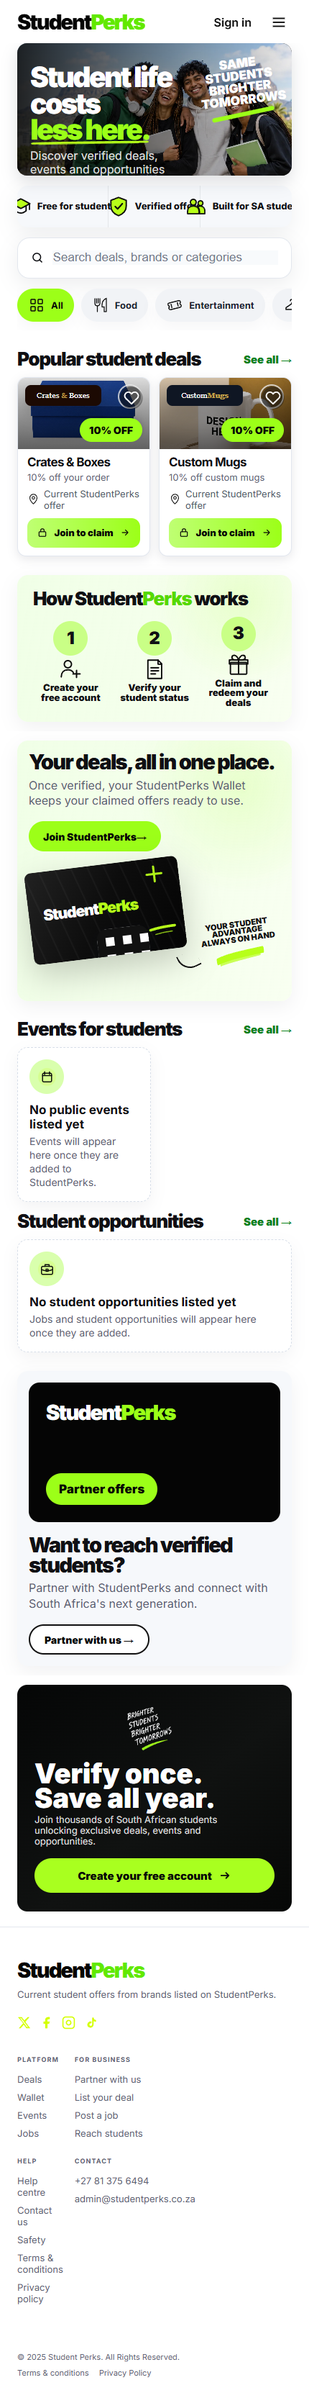
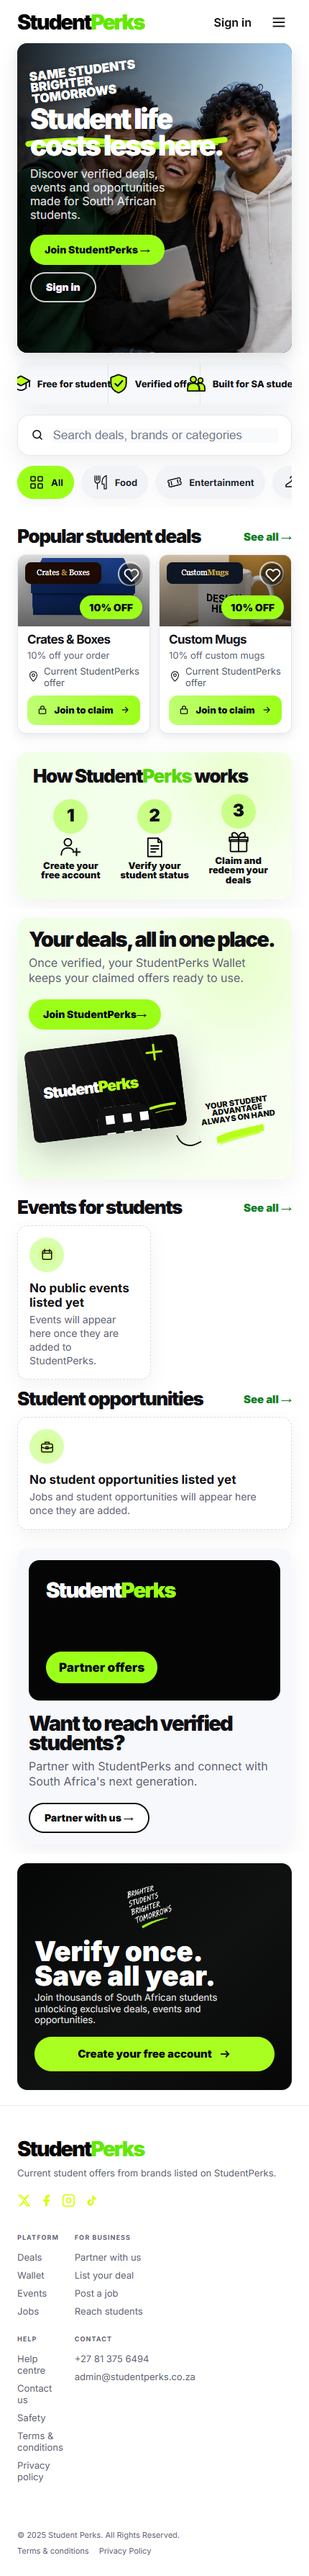
Implement approved hero text treatment

diff --git a/index.html b/index.html
@@ -2838,6 +2838,177 @@ body.public-redesign .deal-image.mugs .brand-logo-img {
     max-width: 100%;
   }
 }
+
+body.public-redesign .hero-handwritten {
+  position: relative;
+  z-index: 3;
+  width: max-content;
+  max-width: 180px;
+  margin-bottom: 10px;
+  color: #fff;
+  font-size: 16px;
+  line-height: .9;
+  font-weight: 900;
+  text-transform: uppercase;
+  transform: rotate(-7deg);
+  text-shadow: 0 2px 12px rgba(0,0,0,.5);
+}
+
+body.public-redesign .hero-underlined {
+  position: relative;
+  z-index: 1;
+  display: inline-block;
+  color: inherit !important;
+  white-space: nowrap;
+}
+
+body.public-redesign .hero-underlined img {
+  position: absolute;
+  z-index: -1;
+  left: -3%;
+  bottom: -.13em;
+  width: 106%;
+  height: auto;
+  pointer-events: none;
+}
+
+@media(max-width:700px){
+  body.public-redesign .mock-hero {
+    height: auto !important;
+    min-height: 0 !important;
+    padding-bottom: 14px !important;
+  }
+
+  body.public-redesign .mock-hero-card {
+    min-height: 430px !important;
+    aspect-ratio: auto !important;
+  }
+
+  body.public-redesign .mock-hero-card > img:first-child {
+    height: 100% !important;
+    object-position: 58% center !important;
+  }
+
+  body.public-redesign .mock-hero-copy h1 {
+    max-width: 310px;
+    margin-bottom: 12px;
+  }
+
+  body.public-redesign .hero-handwritten {
+    margin-bottom: 12px;
+    font-size: 17px;
+  }
+
+  body.public-redesign .mock-actions {
+    display: flex;
+    gap: 10px;
+  }
+
+  body.public-redesign .mock-actions .mock-btn {
+    min-height: 44px;
+    padding: 0 18px;
+    font-size: 14px;
+  }
+}
+
+@media(min-width:701px){
+  body.public-redesign .mock-hero {
+    height: 550px;
+    min-height: 550px;
+  }
+
+  body.public-redesign .mock-hero .wrap {
+    height: 550px;
+    min-height: 550px;
+  }
+
+  body.public-redesign .mock-hero-card {
+    height: 455px;
+    min-height: 455px;
+  }
+
+  body.public-redesign .mock-hero-card > img:first-child,
+  body.public-redesign .mock-hero-card::after {
+    height: 455px;
+  }
+
+  body.public-redesign .mock-hero-copy {
+    width: 420px !important;
+    padding-top: 26px !important;
+  }
+
+  body.public-redesign .hero-handwritten {
+    max-width: 170px;
+    color: #050505;
+    font-size: 15px;
+    text-shadow: none;
+  }
+
+  body.public-redesign .mock-hero-copy h1 {
+    max-width: 430px !important;
+    margin-bottom: 9px;
+    font-size: 48px !important;
+    line-height: .92;
+  }
+
+  body.public-redesign .lime-underlined::before,
+  body.public-redesign .lime-underlined::after {
+    content: none !important;
+    display: none !important;
+  }
+
+  body.public-redesign .mock-hero-copy p {
+    max-width: 360px;
+    margin-bottom: 14px;
+    font-size: 18px !important;
+  }
+
+  body.public-redesign .mock-actions {
+    display: flex !important;
+    gap: 12px;
+    margin-top: 0;
+  }
+
+  body.public-redesign .mock-actions .mock-btn {
+    min-height: 42px;
+    padding: 0 23px;
+    font-size: 13px;
+  }
+
+  body.public-redesign .mock-actions .mock-btn.outline {
+    background: #fff;
+    color: #050505;
+    border: 1px solid var(--sp-border);
+  }
+
+  body.public-redesign .mock-search {
+    top: 366px;
+  }
+
+  body.public-redesign .benefit-strip {
+    top: 418px;
+  }
+
+  body.public-redesign .mock-cats {
+    top: 482px;
+  }
+
+  body.public-redesign .mock-hero-card .desktop-student-badge {
+    top: 262px !important;
+  }
+}
+
+@media(min-width:901px){
+  body.public-redesign .mock-cats {
+    top: 482px;
+  }
+}
+
+@media(min-width:1200px){
+  body.public-redesign .mock-hero-copy h1 {
+    font-size: 50px !important;
+  }
+}
 </style>
 </head>
 <body class="public-redesign">
@@ -2925,11 +3096,10 @@ body.public-redesign .deal-image.mugs .brand-logo-img {
   <div class="wrap">
     <div class="mock-hero-card">
       <img src="assets/desktop/backgrounds/hero-table-mountain-clean.webp" alt="South African students with Table Mountain in the background">
-      <img class="desktop-hero-slogan" src="assets/desktop/hero-slogan.png" alt="" aria-hidden="true">
       <img class="desktop-student-badge" src="assets/desktop/student-advantage-badge.png" alt="" aria-hidden="true">
-      <div class="mock-scribble">Same students<br>brighter tomorrows</div>
       <div class="mock-hero-copy">
-        <h1>Student life<br>costs <span class="lime-underlined">less here.</span></h1>
+        <div class="hero-handwritten">Same students<br>brighter tomorrows</div>
+        <h1>Student life<br><span class="hero-underlined">costs less here.<img src="assets/desktop/decor/hero-green-underline.svg" alt="" aria-hidden="true"></span></h1>
         <p>Discover verified deals, events and opportunities made for South African students.</p>
         <div class="mock-actions">
           <button class="mock-btn lime" onclick="openModal('jn')">Join StudentPerks →</button>
